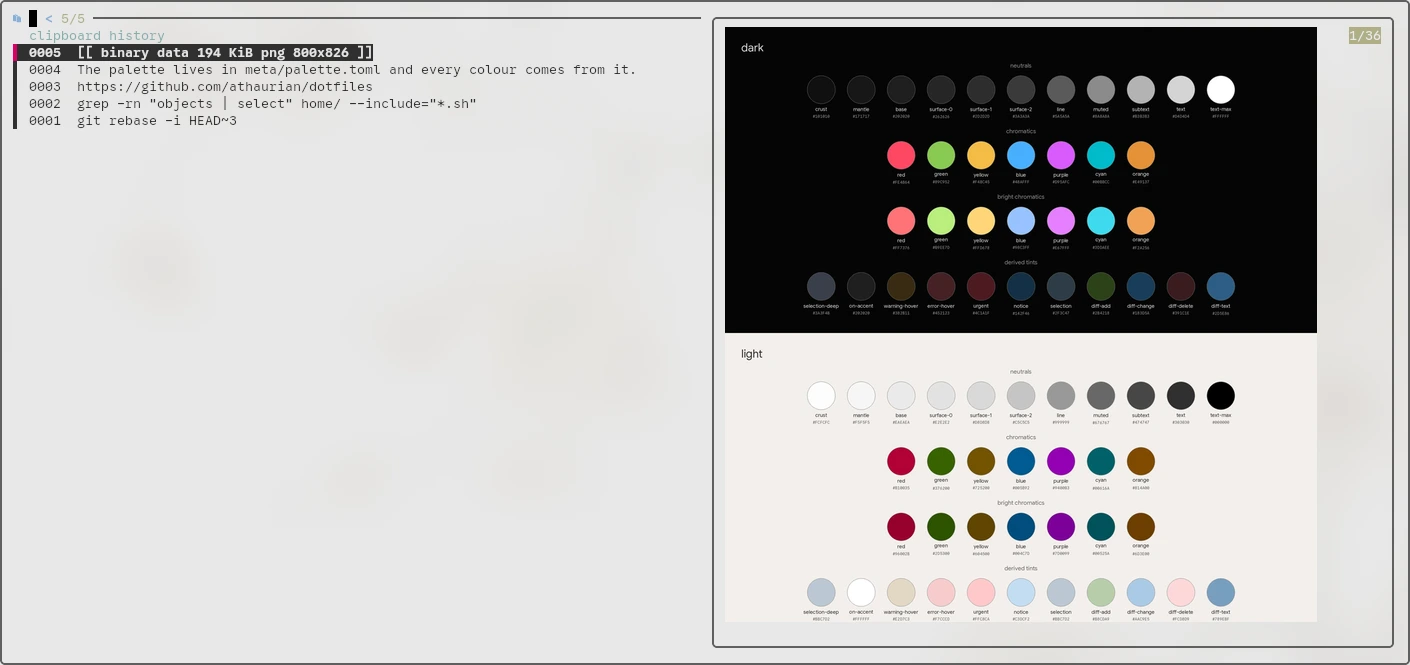
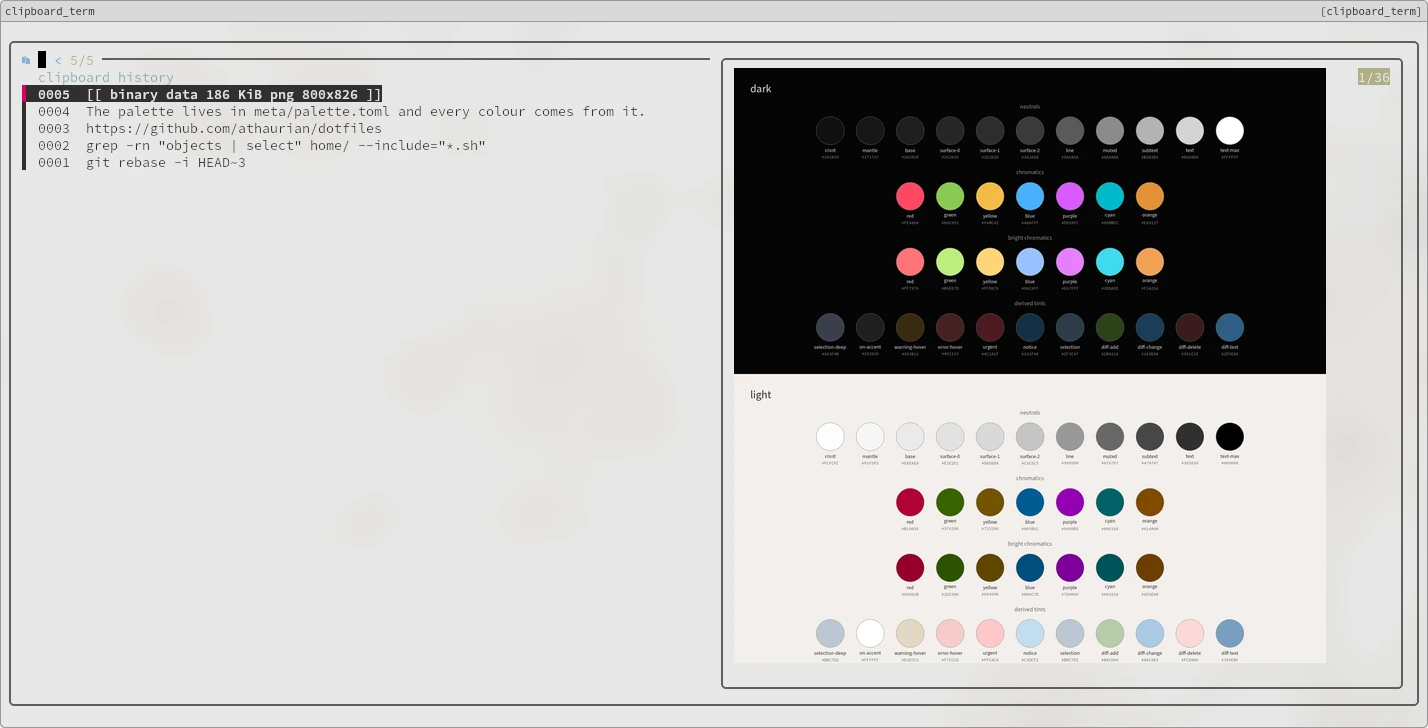
docs(images): recapture with Source fonts and clean corners

Changed region(s): [[0.0, 0.0, 1.0, 1.0], [0.5929, 0.6015, 0.6241, 0.6316]]

diff --git a/meta/round-corners.py b/meta/round-corners.py
@@ -1,0 +1,85 @@
+"""Crop a screenshot to a window box with rounded corners.
+
+The captures show the desktop in the corners around the window. The docs site
+shows transparent pixels as black, so this fills the corners with the page
+background color instead.
+
+The mask is anti-aliased so the curve stays smooth. Pixels along the boundary
+are painted with the window's edge color first, so the curve fades from the
+window edge to the page background instead of carrying desktop colors.
+"""
+
+import argparse
+import re
+
+import numpy as np
+from PIL import Image
+
+
+def parse_box(value):
+    match = re.fullmatch(r"(\d+)x(\d+)\+(\d+)\+(\d+)", value)
+    if not match:
+        raise argparse.ArgumentTypeError("expected WxH+X+Y")
+    width, height, left, top = map(int, match.groups())
+    return left, top, left + width, top + height
+
+
+def parse_color(value):
+    digits = value.lstrip("#")
+    if not re.fullmatch(r"[0-9a-fA-F]{6}", digits):
+        raise argparse.ArgumentTypeError("expected a six-digit hex color")
+    return tuple(int(digits[index : index + 2], 16) for index in (0, 2, 4))
+
+
+def rounded_alpha(width, height, radius):
+    ys, xs = np.mgrid[0:height, 0:width]
+    px, py = xs + 0.5, ys + 0.5
+    half_x, half_y = width / 2.0, height / 2.0
+    qx = np.abs(px - half_x) - (half_x - radius)
+    qy = np.abs(py - half_y) - (half_y - radius)
+    distance = (
+        np.hypot(np.maximum(qx, 0.0), np.maximum(qy, 0.0))
+        + np.minimum(np.maximum(qx, qy), 0.0)
+        - radius
+    )
+    return np.clip(0.5 - distance, 0.0, 1.0)
+
+
+def render(source, output, box, radius, edge, background, quality):
+    left, top, right, bottom = box
+    image = Image.open(source).convert("RGB")
+    crop = np.asarray(image.crop((left, top, right, bottom))).astype(np.float64)
+    height, width, _ = crop.shape
+    alpha = rounded_alpha(width, height, radius)
+    painted = np.where((alpha < 1.0)[..., None], np.array(edge), crop)
+    composed = painted * alpha[..., None] + np.array(background) * (
+        1.0 - alpha[..., None]
+    )
+    Image.fromarray(np.clip(np.rint(composed), 0, 255).astype(np.uint8)).save(
+        output, "WEBP", quality=quality
+    )
+
+
+def main():
+    parser = argparse.ArgumentParser(description=__doc__)
+    parser.add_argument("source")
+    parser.add_argument("output")
+    parser.add_argument("--crop", required=True, type=parse_box, metavar="WxH+X+Y")
+    parser.add_argument("--radius", required=True, type=float)
+    parser.add_argument("--edge", required=True, type=parse_color, metavar="HEX")
+    parser.add_argument("--background", required=True, type=parse_color, metavar="HEX")
+    parser.add_argument("--quality", type=int, default=92)
+    arguments = parser.parse_args()
+    render(
+        arguments.source,
+        arguments.output,
+        arguments.crop,
+        arguments.radius,
+        arguments.edge,
+        arguments.background,
+        arguments.quality,
+    )
+
+
+if __name__ == "__main__":
+    main()

diff --git a/meta/shots.md b/meta/shots.md
@@ -2,8 +2,11 @@
 
 The desktop images in `docs/images/` come from the live Sway session, not a
 headless renderer. The `meta/hero.py` script cuts and composes the split pairs,
-and the `meta/palette-card.py` script renders the palette card. The capture
-steps take over the session, so run them by hand in order.
+the `meta/palette-card.py` script renders the palette card, and
+`meta/round-corners.py` crops the window screenshots onto the page background.
+The window figures use `no-radius` in `extra.css`, so each image supplies its
+own corners. The capture steps take over the session, so run them by hand in
+order.
 
 ## Rules
 
@@ -126,21 +129,18 @@ grim meta/captures/editor-dark.png
 
 Repeat with the `palette-mode light` command and `editor-light.png`. The window
 border box is `1904x1040+8+32`, recorded beside each raw as a `.geom` file. The
-crop keeps that border and masks the corners outside it:
+window corners have a 5px radius. `meta/round-corners.py` crops the border box,
+rounds the corners with anti-aliasing, and fills them with the page background
+(`#050505` for slate, `#f3efec` for default) instead of leaving transparent
+pixels. The `--edge` color is the theme's window border:
 
 ```sh
-magick meta/captures/editor-dark.png \
-  -crop 1904x1040+8+32 +repage \
-  \( -size 1904x1040 xc:none -fill white \
-     -draw "roundrectangle 0,0,1903,1039,4,4" \) \
-  -compose DstIn -composite \
-  -quality 92 docs/images/neovim-editor.webp
-magick meta/captures/editor-light.png \
-  -crop 1904x1040+8+32 +repage \
-  \( -size 1904x1040 xc:none -fill white \
-     -draw "roundrectangle 0,0,1903,1039,4,4" \) \
-  -compose DstIn -composite \
-  -quality 92 docs/images/neovim-editor-light.webp
+uv run --with pillow python3 meta/round-corners.py \
+  meta/captures/editor-dark.png docs/images/neovim-editor.webp \
+  --crop 1904x1040+8+32 --radius 5 --edge 5a5a5a --background 050505
+uv run --with pillow python3 meta/round-corners.py \
+  meta/captures/editor-light.png docs/images/neovim-editor-light.webp \
+  --crop 1904x1040+8+32 --radius 5 --edge 999999 --background f3efec
 ```
 
 ## Discord pair
@@ -148,21 +148,20 @@ magick meta/captures/editor-light.png \
 Capture the Discord profile card in both modes at full screen. Archive the
 screenshots as `discord-dark.png` and `discord-light.png`. The card sits at
 `432x160+960+281` in the 1920x1080 capture, recorded beside each raw as a
-`.geom` file. Crop each raw to the card border and mask the corners outside it:
+`.geom` file. The card corners have a 12px radius. The dark card draws no border
+and ends two pixels above the light card's border, so each crop keeps its
+measured height. `meta/round-corners.py` fills the corners with the page
+background (`#050505` for slate, `#f3efec` for default) instead of leaving
+transparent pixels. The `--edge` color is the card fill for dark and the card
+border for light:
 
 ```sh
-magick meta/captures/discord-dark.png \
-  -crop 432x160+960+281 +repage \
-  \( -size 432x160 xc:none -fill white \
-     -draw "roundrectangle 0,0,431,159,8,8" \) \
-  -compose DstIn -composite \
-  -quality 92 docs/images/neovim-discord.webp
-magick meta/captures/discord-light.png \
-  -crop 432x160+960+281 +repage \
-  \( -size 432x160 xc:none -fill white \
-     -draw "roundrectangle 0,0,431,159,8,8" \) \
-  -compose DstIn -composite \
-  -quality 92 docs/images/neovim-discord-light.webp
+uv run --with pillow python3 meta/round-corners.py \
+  meta/captures/discord-dark.png docs/images/neovim-discord.webp \
+  --crop 432x158+960+281 --radius 12 --edge 17181b --background 050505
+uv run --with pillow python3 meta/round-corners.py \
+  meta/captures/discord-light.png docs/images/neovim-discord-light.webp \
+  --crop 432x160+960+281 --radius 12 --edge eaeaec --background f3efec
 ```
 
 ## Pickers
@@ -259,28 +258,20 @@ swaymsg -t get_tree | jq -r '[.. | objects | select(.name? == "clipboard_term")]
   > meta/captures/picker-clipboard.geom
 ```
 
-Repeat in the other mode with `picker-clipboard-light.png` and the matching
-`.geom` file. The recorded rectangle still includes the titlebar, so crop to the
-picker's own border instead. Both modes draw that border in `srgb(95,95,95)`;
-trimming the recorded rectangle to that colour gives `1410x665+9+19`:
+Repeat in the other mode with `picker-clipboard-light.png`. Both modes put the
+picker border at `1428x728+246+188`. The corners have a 5px radius, so a
+rectangular crop would keep wallpaper pixels. `meta/round-corners.py` crops the
+border box, rounds the corners with anti-aliasing, and fills them with the page
+background (`#050505` for slate, `#f3efec` for default) instead of leaving
+transparent pixels. The `--edge` color is the theme's window border:
 
 ```sh
-magick meta/captures/picker-clipboard.png \
-  -crop "$(cat meta/captures/picker-clipboard.geom)" +repage \
-  -alpha off -fill black +opaque 'srgb(95,95,95)' \
-  -fill white -opaque 'srgb(95,95,95)' -format '%@\n' info:
-```
-
-Add those offsets to the rectangle origin, which puts the frame at
-`1410x665+255+230` for this window size. That keeps the rounded border, drops
-the titlebar, and opts out of the corners that `extra.css` adds to figures:
-
-```sh
-for suffix in "" "-light"; do
-  magick "meta/captures/picker-clipboard${suffix}.png" \
-    -crop 1410x665+255+230 +repage \
-    -quality 92 "docs/images/picker-clipboard${suffix}.webp"
-done
+uv run --with pillow python3 meta/round-corners.py \
+  meta/captures/picker-clipboard.png docs/images/picker-clipboard.webp \
+  --crop 1428x728+246+188 --radius 5 --edge 5a5a5a --background 050505
+uv run --with pillow python3 meta/round-corners.py \
+  meta/captures/picker-clipboard-light.png docs/images/picker-clipboard-light.webp \
+  --crop 1428x728+246+188 --radius 5 --edge 999999 --background f3efec
 ```
 
 Confirm the picker was focused before `grim`, since an unfocused picker dims its
